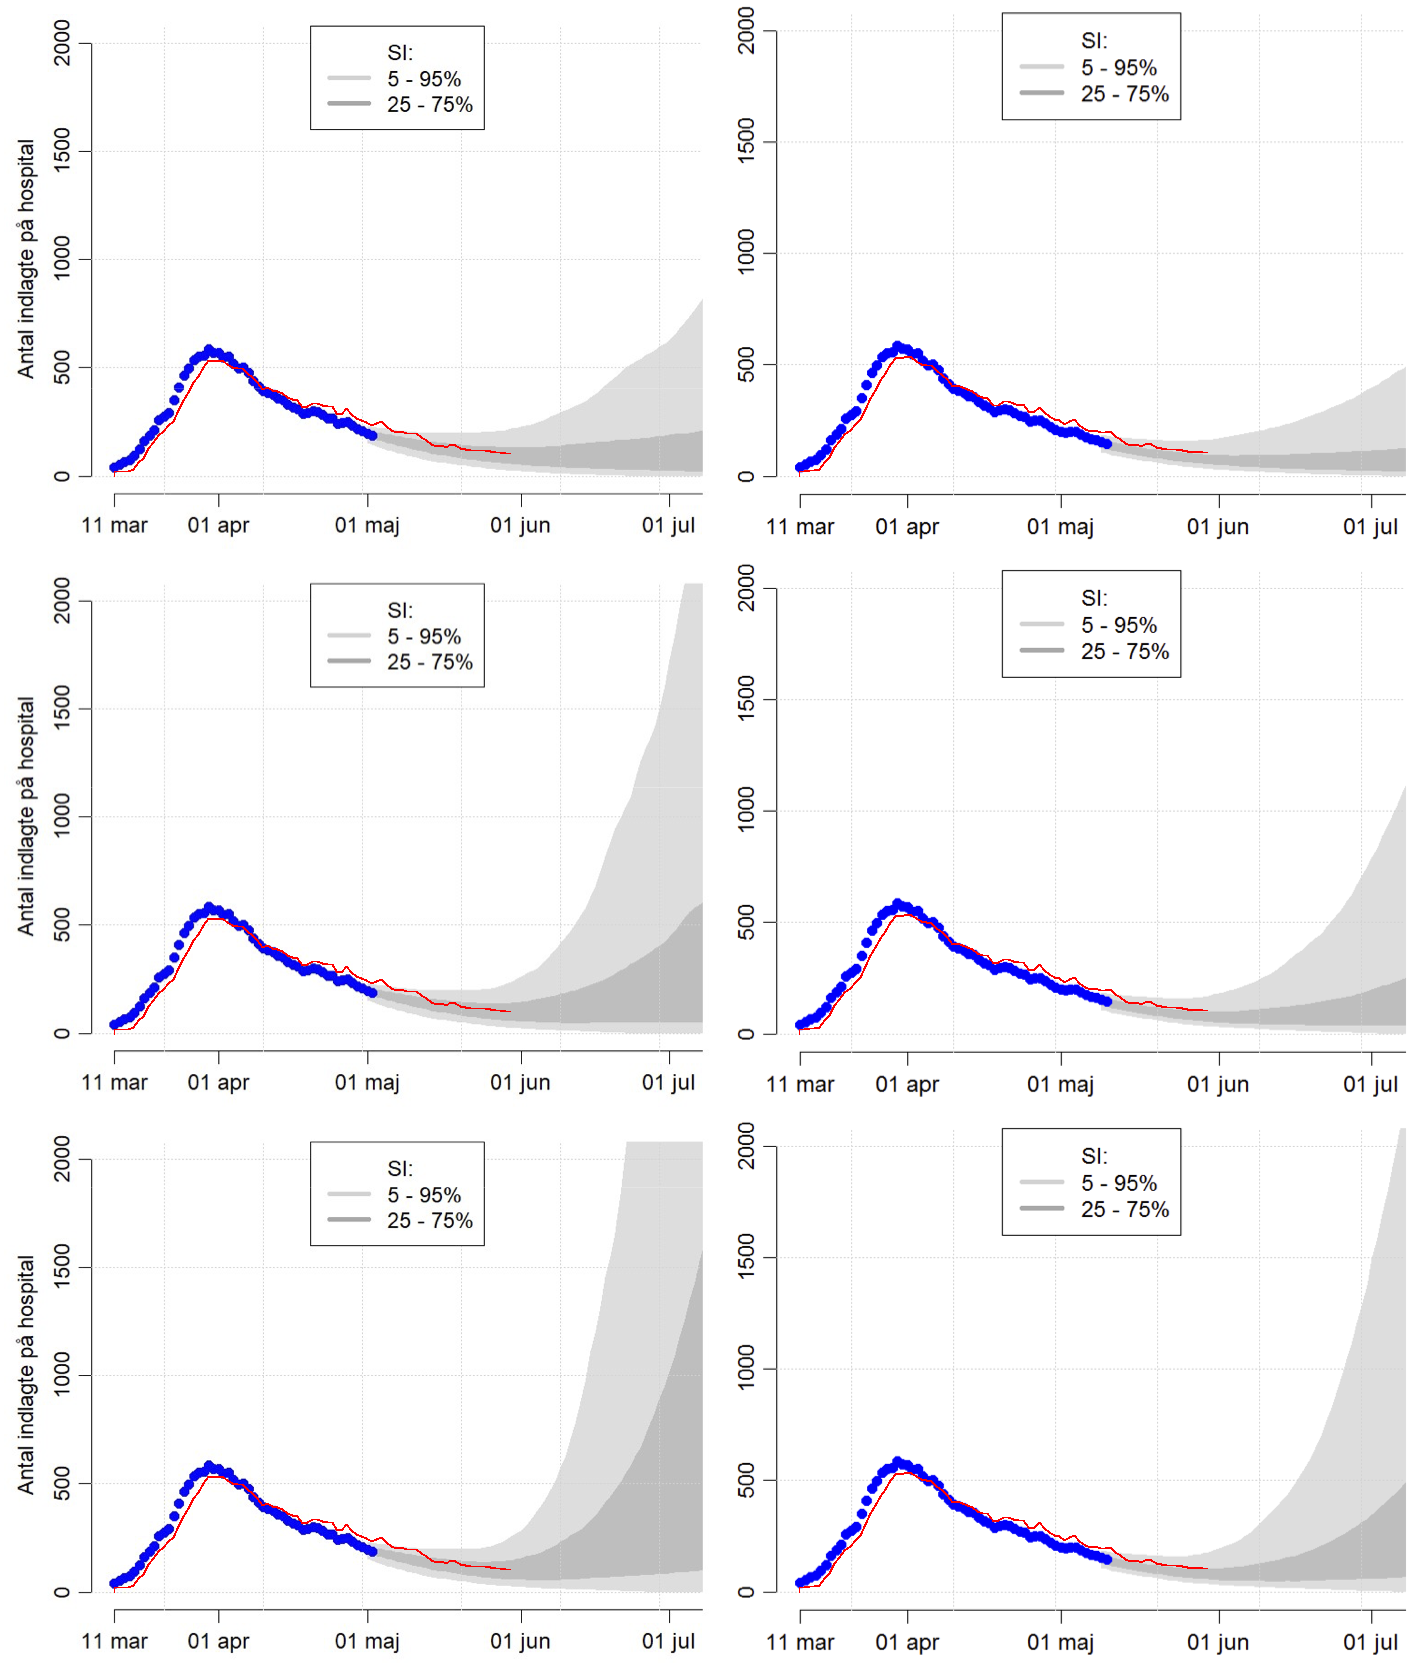
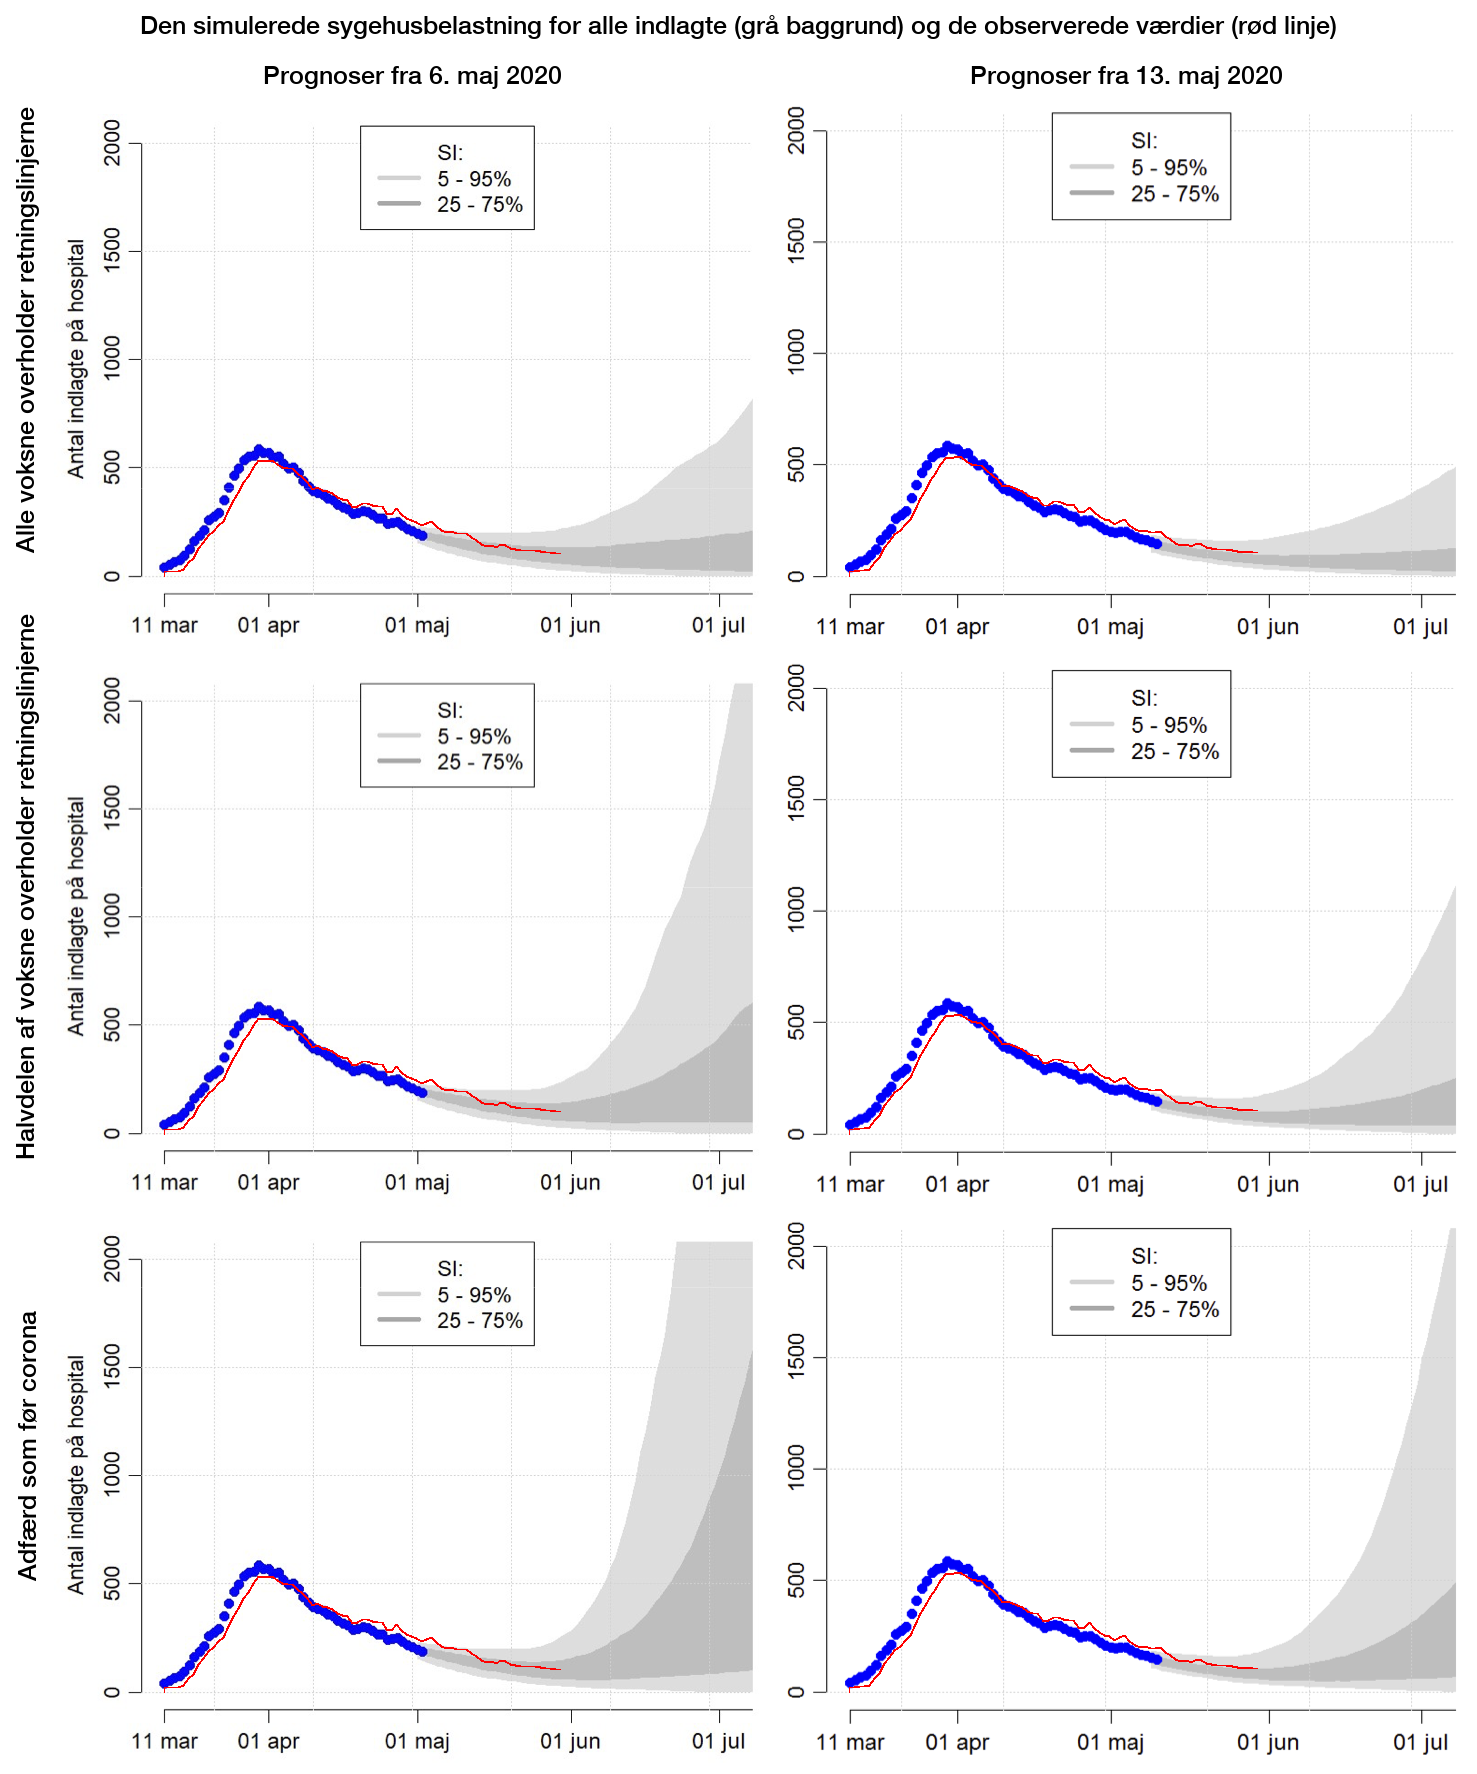
Add headers

diff --git a/py/lib.py b/py/lib.py
@@ -1,5 +1,6 @@
 # setup: pip3 install scikit-image
 from skimage import io, draw
+from PIL import Image, ImageDraw, ImageFont
 import numpy as np
 
 # read hospitalizations per day from datafile
@@ -7,10 +8,11 @@ POINTS = list(map(int, open('hospitalized.txt').readlines()))
 
 
 class Plot:
-    def __init__(self, img, start_x, start_y):
+    def __init__(self, img, start_x, start_y, title=None):
         self.img = img
         self.start_x = start_x
         self.start_y = start_y
+        self.title = title
 
 
 class Prediction:
@@ -160,20 +162,62 @@ def merge_vertical(*imgs):
 
     return np.concatenate(padded)
 
-def merge(img_groups):
+def merge(left_explainer, img_groups):
+    titles = [i[0] for i in img_groups]
+    groups = [i[1] for i in img_groups]
+
     def pad_y(img, before, after):
         color = [(255, 255), (255, 255), (255, 255)]
         return np.pad(img, ((before, after), (0, 0), (0, 0)), mode='constant', constant_values=color)
 
-    max_y = max(max(i.start_y for i in group) for group in img_groups)
-    padded_groups = [[pad_y(i.img, max_y - i.start_y, 0) for i in g] for g in img_groups]
+    max_y = max(max(i.start_y for i in group) for group in groups)
+    padded_groups = [[pad_y(i.img, max_y - i.start_y, 0) for i in g] for g in groups]
 
     group_height = max(max(len(i) for i in group) for group in padded_groups)
     padded_groups = [[pad_y(i, 0, group_height - len(i)) for i in g] for g in padded_groups]
 
     imgs = [merge_vertical(*group) for group in padded_groups]
+    imgs = [add_header(img, title) for img, title in zip(imgs, titles)]
+
     height = max(len(i) for i in imgs)
-    return np.concatenate([pad_y(i, 0, height - len(i)) for i in imgs], axis=1)
+    plots = np.concatenate([pad_y(i, 0, height - len(i)) for i in imgs], axis=1)
+
+    # Make space for side-header (explainer)
+    color = [(255, 255), (255, 255), (255, 255)]
+    plots = np.pad(plots, ((0, 0), (50, 0), (0, 0)), mode='constant', constant_values=color)
+    for n, text in enumerate(left_explainer):
+        img = new_header(50, group_height, text)
+        print(img.height, img.width)
+        img = img.transpose(Image.ROTATE_90)
+        print(img.height, img.width)
+        pil_to_img(img, plots, start_xy=(0, n * group_height))
+
+    return plots
+
+
+def new_header(height, width, text):
+    pil_img = Image.new(mode='RGBA', size=(width, height), color=(255, 255, 255))
+    font = ImageFont.truetype("fonts/HelveticaNeue Medium.ttf", 25)
+
+    draw = ImageDraw.Draw(pil_img)
+    w, h = draw.textsize(text, font=font)
+    draw.multiline_text(((width-w)/2, (height-h)/2), text, (0,0,0), font=font)
+    return pil_img
+
+
+def pil_to_img(pil_img, img, start_xy=(0,0)):
+    for y in range(pil_img.height):
+        for x in range(pil_img.width):
+            img[start_xy[1]+y, start_xy[0]+x] = pil_img.getpixel((x, y))
+
+
+def add_header(img, text):
+    width = len(img[0])
+    height = 50
+    pil_img = new_header(height, width, text)
+    img = np.pad(img, ((height, 0), (0, 0), (0, 0)), mode='constant')
+    pil_to_img(pil_img, img)
+    return img
 
 
 def save(img, path):

diff --git a/py/overlay.py b/py/overlay.py
@@ -1,10 +1,14 @@
 import lib
 
+main_title = 'Den simulerede sygehusbelastning for alle indlagte (grå baggrund) og de observerede værdier (rød linje)'
+
 days = 112
 
+title1 = 'Prognoser fra 6. maj 2020'
 data = lib.Prediction('reports/20200506/22.png', x_size=days, y_size=2000)
 img1 = [data.process(1010, 1064), data.process(1010, 1702), data.process(1010, 2334)]
 
+title2 = 'Prognoser fra 13. maj 2020'
 p = (1034, 2490)
 img2 = [
     lib.Prediction('reports/20200520/13.png', x_size=days, y_size=2000).process(*p),
@@ -12,4 +16,11 @@ img2 = [
     lib.Prediction('reports/20200520/15.png', x_size=days, y_size=2000).process(*p),
 ]
 
-lib.save(lib.merge([img1, img2]), 'result.png')
+left_explainer = [
+    'Alle voksne overholder retningslinjerne',
+    'Halvdelen af voksne overholder retningslinjerne',
+    'Adfærd som før corona'
+]
+
+final = lib.merge(left_explainer, [(title1, img1), (title2, img2)])
+lib.save(lib.add_header(final, main_title), 'result.png')
